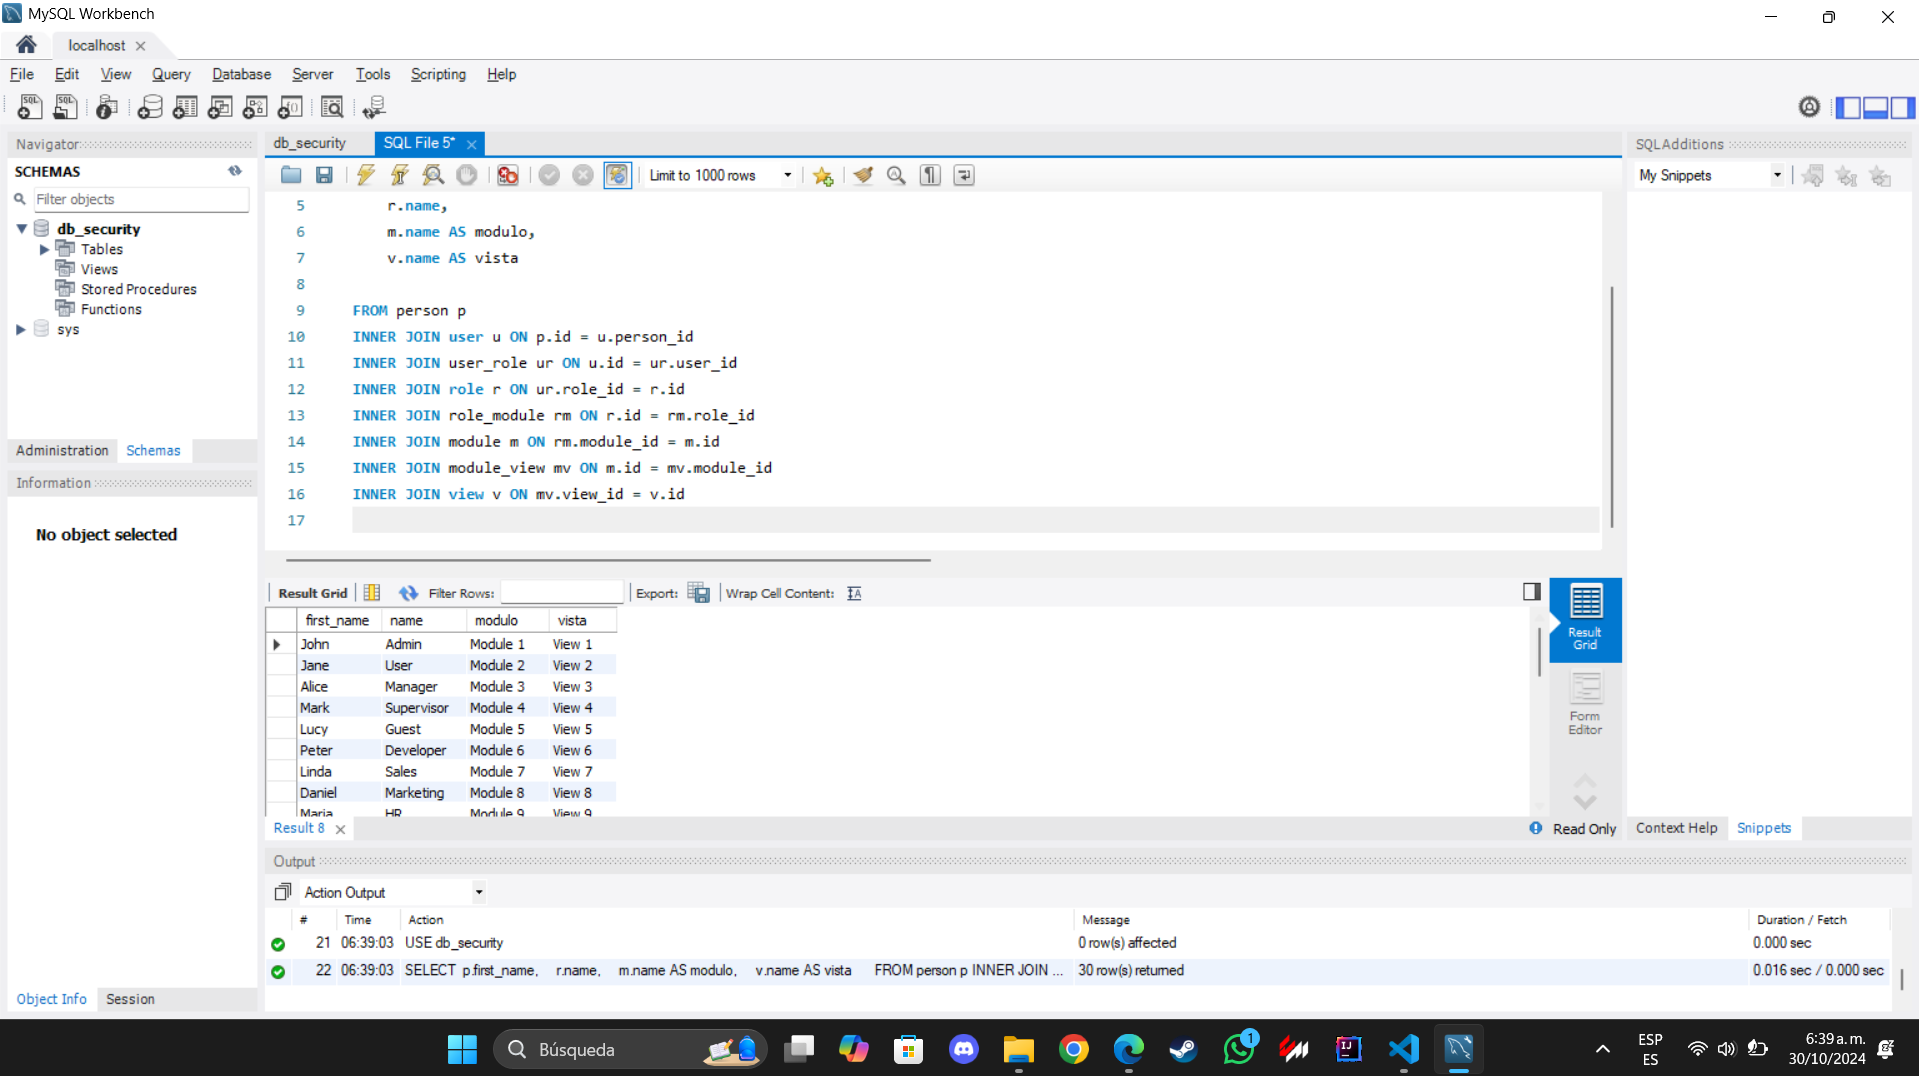
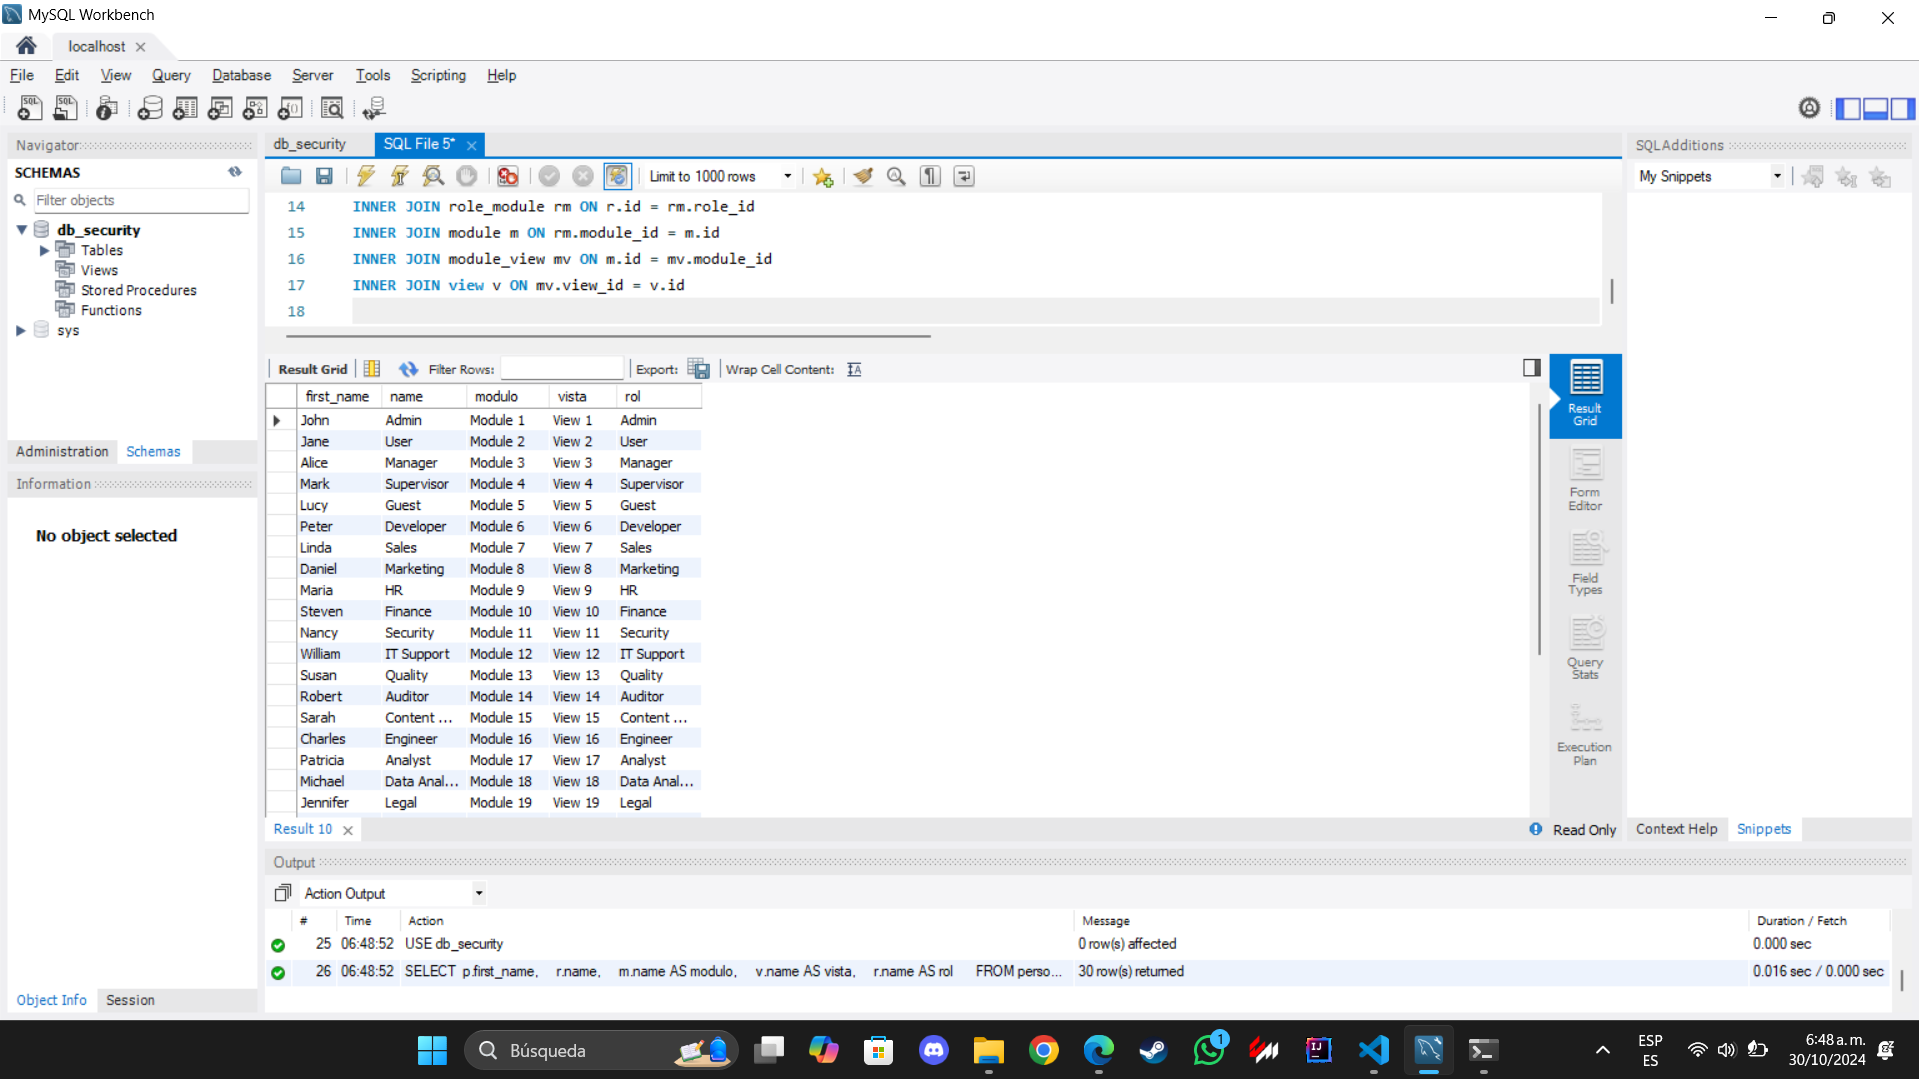
Cambios

diff --git a/caso1/caso1.md b/caso1/caso1.md
@@ -15,7 +15,8 @@ SELECT
 	p.first_name,
     r.name,
     m.name AS modulo,
-    v.name AS vista
+    v.name AS vista,
+    r.name AS rol
     
 FROM person p
 INNER JOIN user u ON p.id = u.person_id
